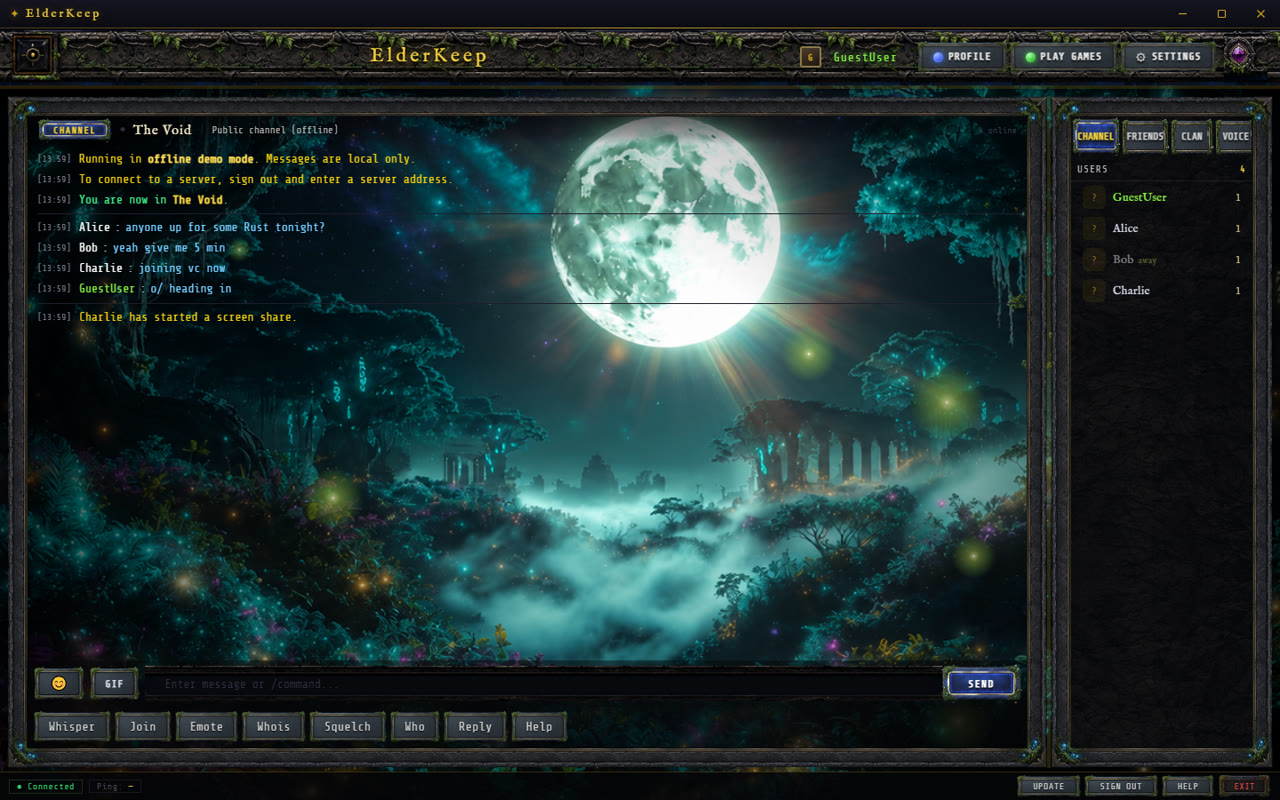
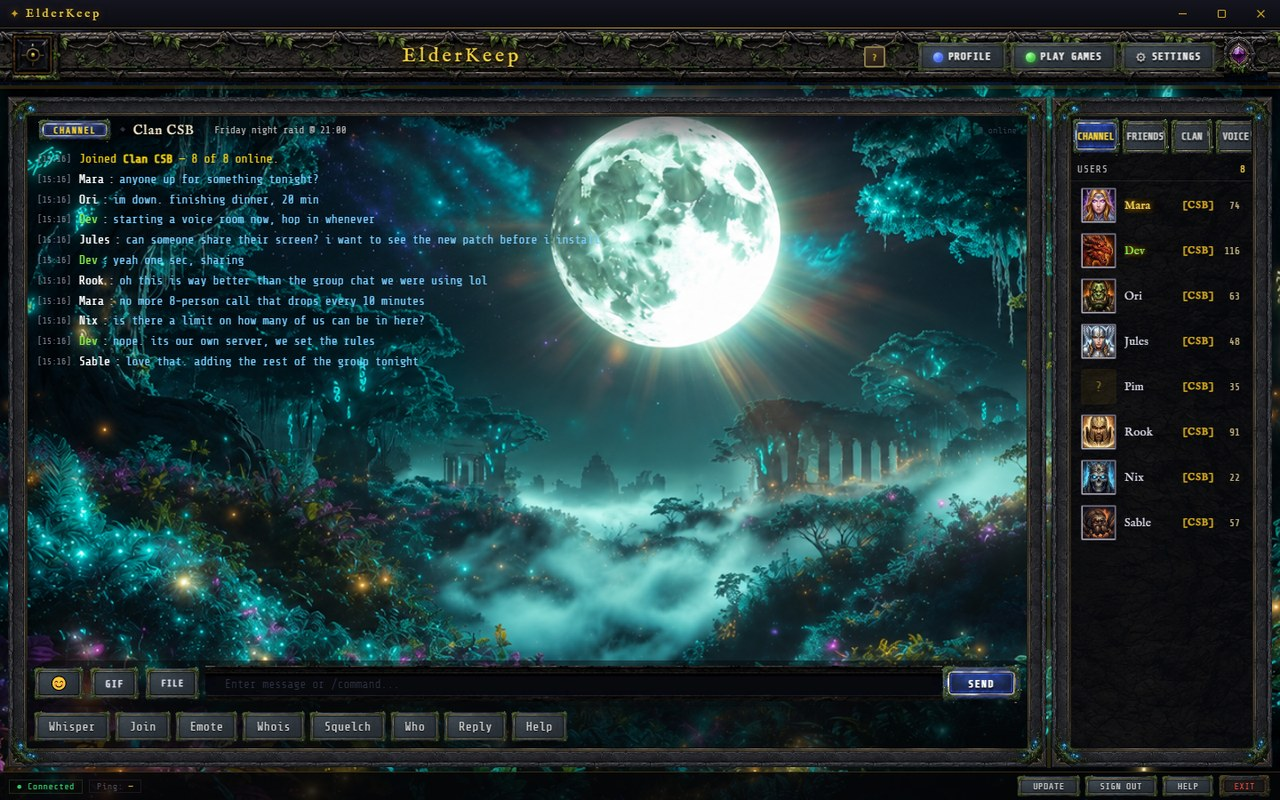
README: six current screenshots, matching the website
The old set predated the profile icons and the settings redesign - the chat
shot still read "Running in offline demo mode" with ? placeholder avatars and
Alice/Bob/Charlie. All six are re-rendered from the real renderer at 1280x800,
and the grid now covers voice rooms and the arcade, which were never shown.
Click one for full size. No Warcraft III in the shots, same as the website.

diff --git a/README.md b/README.md
@@ -24,12 +24,14 @@ features get added when the people using it ask for them.
 
 <div align="center">
 
-|                                                            |                                                              |
-|:----------------------------------------------------------:|:------------------------------------------------------------:|
-| ![Chat](docs/screenshots/chat.jpg)                          | ![Voice](docs/screenshots/voice-settings.jpg)                 |
-| **Chat** — channels, live member list, friends and clans    | **Voice** — devices, noise suppression, echo cancellation     |
-| ![Screen share](docs/screenshots/screenshare-settings.jpg)  | ![Play Games](docs/screenshots/play-games.jpg)                |
-| **Screen share** — resolution, frame rate, system audio     | **Play Games** — find a server without leaving the app        |
+| | |
+|:---:|:---:|
+| [![Chat](docs/screenshots/chat.jpg)](docs/screenshots/chat.jpg) | [![Voice rooms](docs/screenshots/voice.jpg)](docs/screenshots/voice.jpg) |
+| **Chat** — channels, clans, and a live member list | **Voice** — rooms you drop in and out of, with who's sharing a screen |
+| [![Screen share](docs/screenshots/screenshare-settings.jpg)](docs/screenshots/screenshare-settings.jpg) | [![Play Games](docs/screenshots/play-games.jpg)](docs/screenshots/play-games.jpg) |
+| **Screen share** — resolution, frame rate, bitrate, system audio | **Play Games** — find a server without leaving the app |
+| [![Arcade](docs/screenshots/arcade.jpg)](docs/screenshots/arcade.jpg) | [![Settings](docs/screenshots/settings.jpg)](docs/screenshots/settings.jpg) |
+| **Arcade** — built-in games, leaderboards, and rated chess | **Settings** — themes, colours, fonts and layout |
 
 </div>
 
